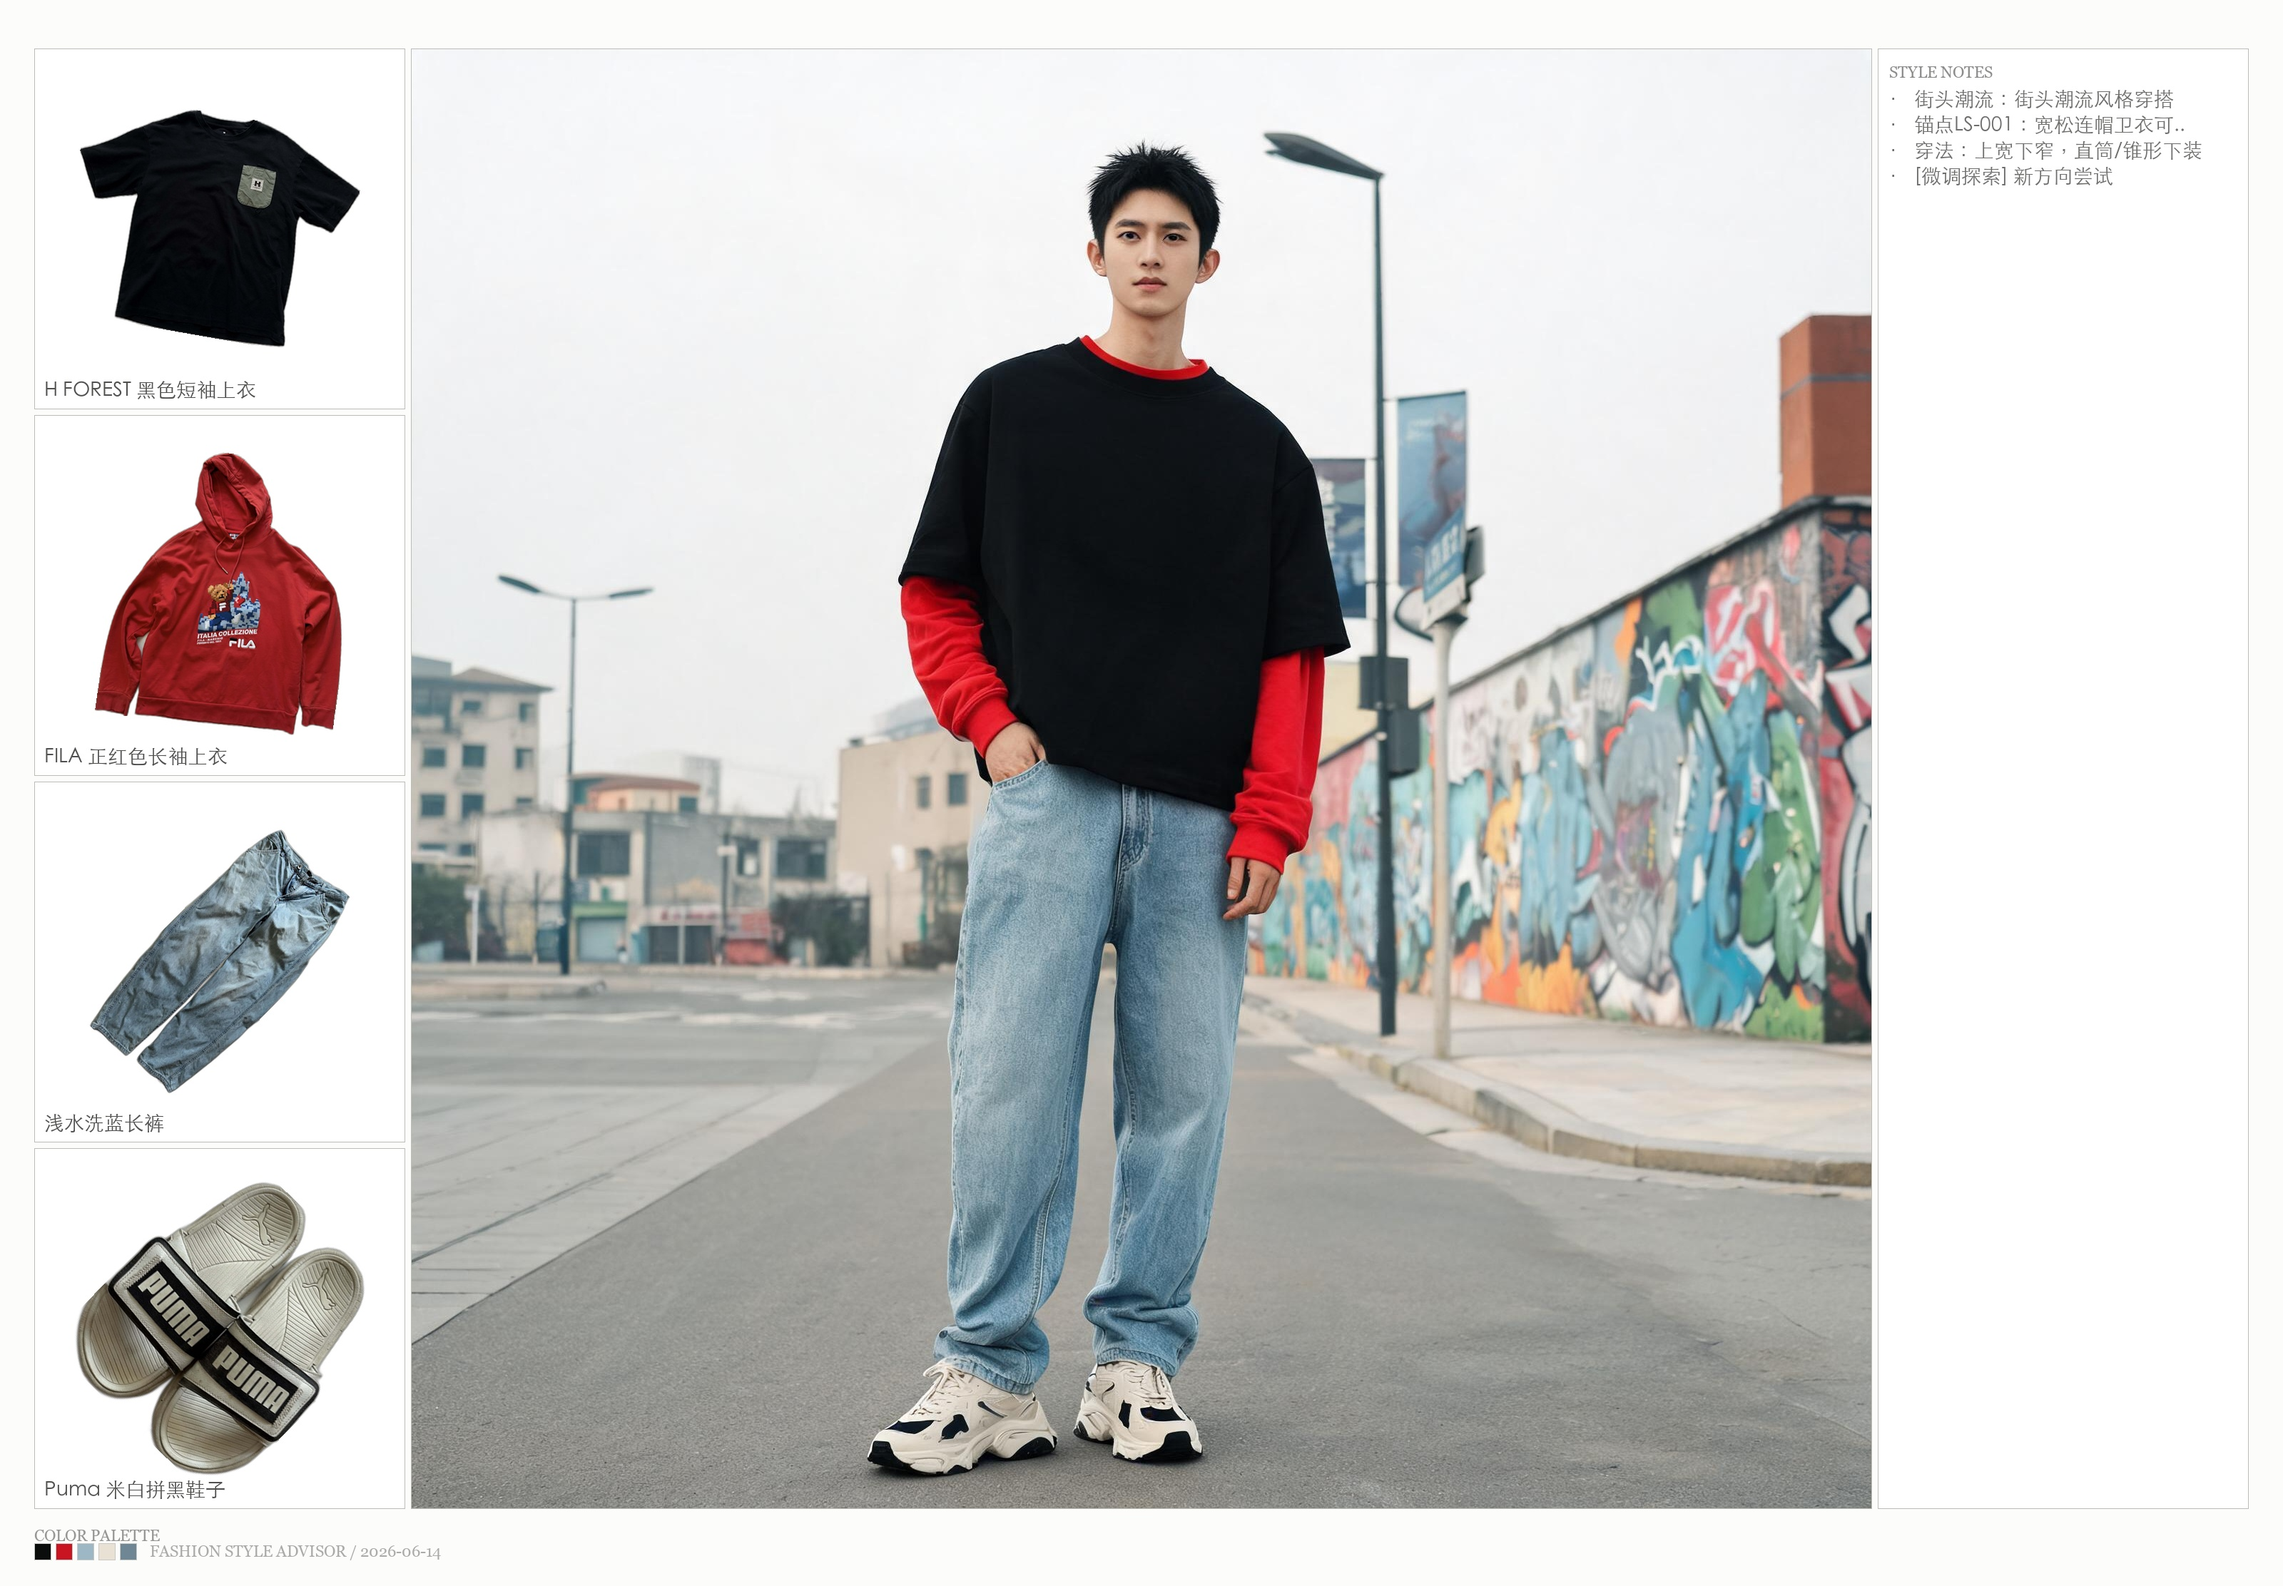
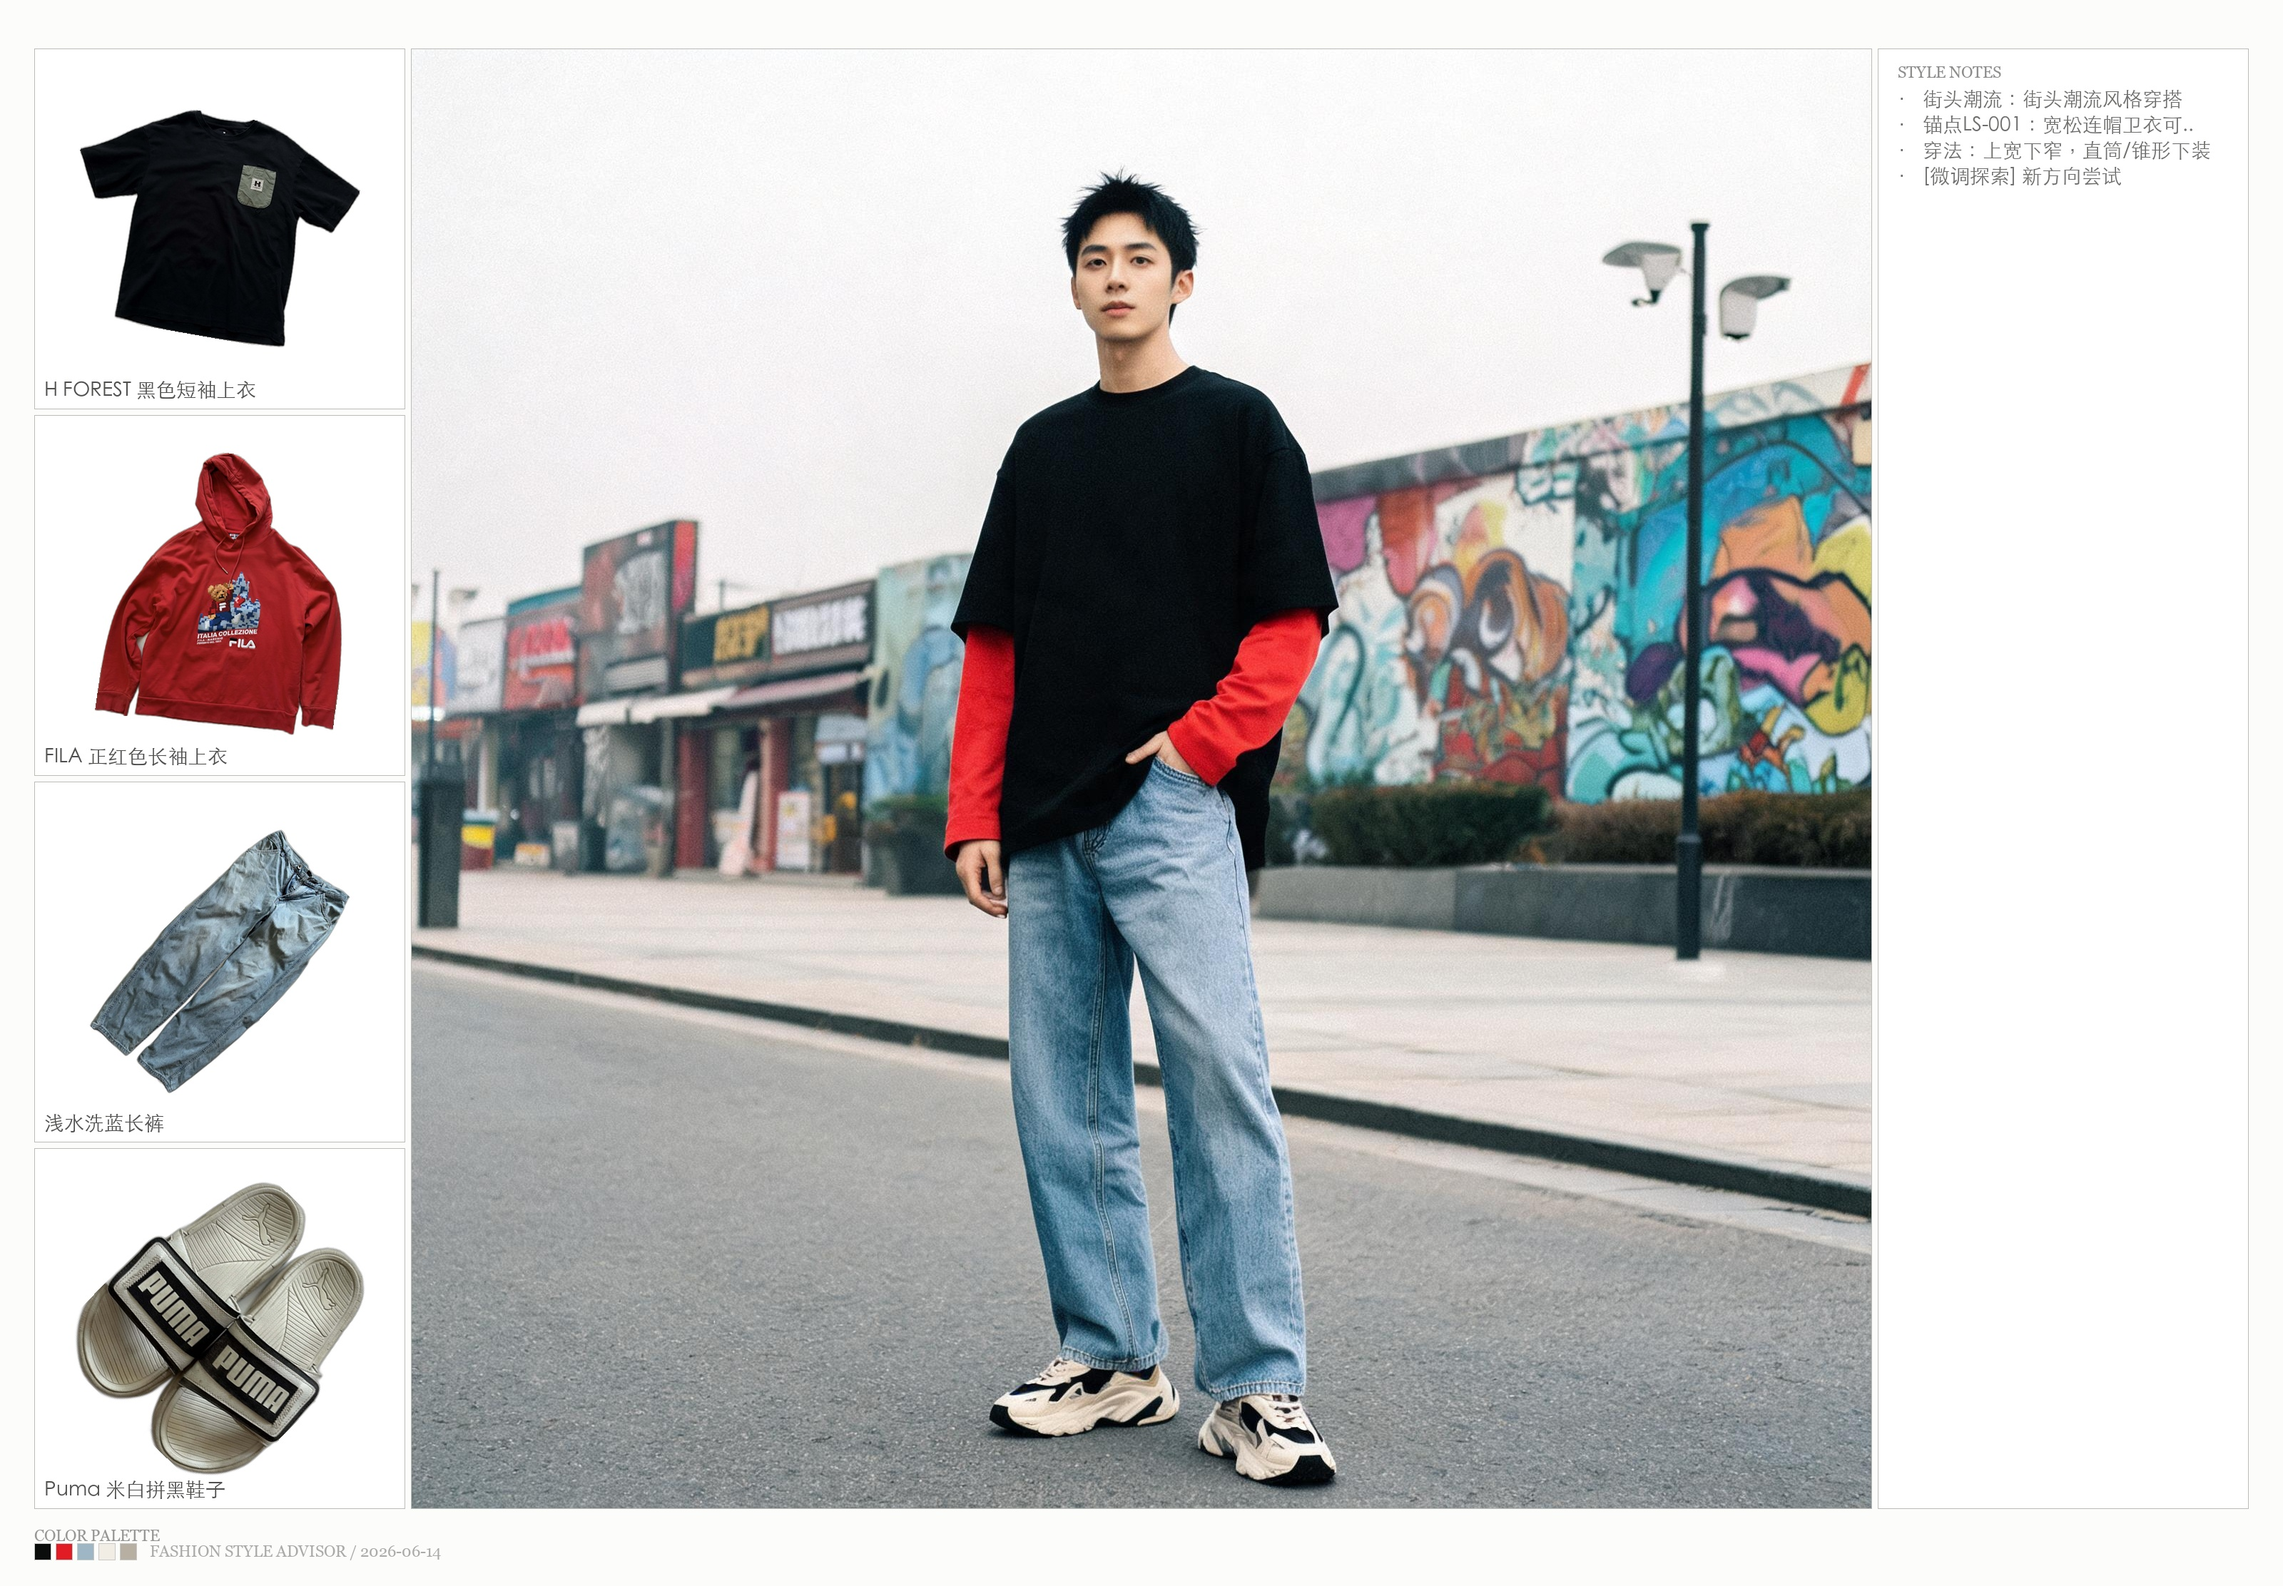
🧪 B线探索: 街头潮流 (2026-06-14)

Changed region(s): [[0.1562, 0.0621, 0.8438, 0.9618], [0.8438, 0.031, 0.9688, 0.1241]]

diff --git a/tools/composite_v2.py b/tools/composite_v2.py
@@ -124,14 +124,14 @@ def parse_style_info(outfit_dir):
                 m = re.search(r'[：:]\s*(.+)', line)
                 if m:
                     v = m.group(1).strip().replace('**', '')
-                    if v and len(v) <= 18:
+                    if v:
                         notes.append(v)
                 continue
             if in_section:
                 if line.strip().startswith('##') or line.strip().startswith('---'):
                     break
                 s = line.strip().lstrip('- ').strip()
-                if s and len(s) <= 18:
+                if s:
                     notes.append(s)
         if notes:
             return notes[:5]
@@ -180,7 +180,7 @@ def parse_style_info(outfit_dir):
                 reason = cells[4]  # B线表格第5列是选品理由
             else:
                 continue
-            if reason and reason not in ('选品理由', '') and len(reason) <= 18:
+            if reason and reason not in ('选品理由', '') and True:  # no length limit (wrapping)
                 reasons.append(reason)
     # 取前2条作为风格提示
     for r in reasons[:2]:
@@ -188,6 +188,23 @@ def parse_style_info(outfit_dir):
             notes.append(r)
 
     return notes[:5]
+
+
+def wrap_text(text, font, max_width):
+    """中文按字符换行"""
+    lines = []
+    current = ''
+    for ch in text:
+        test = current + ch
+        if font.getbbox(test)[2] <= max_width:
+            current = test
+        else:
+            if current:
+                lines.append(current)
+            current = ch
+    if current:
+        lines.append(current)
+    return lines or [text]
 
 def composite(ai_path,items,output_path):
     ai_img=Image.open(ai_path).convert('RGB'); ai_w,ai_h=ai_img.size
@@ -266,12 +283,15 @@ def composite(ai_path,items,output_path):
         canvas.paste((255,255,255),(rx,ry,rx+cell_w,ry+info_h))
         draw.rectangle([(rx,ry),(rx+cell_w-1,ry+info_h-1)],outline=(189,189,184),width=BORDER)
         ty=ry+20
+        NOTE_PAD=28; NOTE_MAX_W=cell_w-NOTE_PAD-16
         if style_kw:
-            draw.text((rx+16,ty),'STYLE NOTES',font=f_mini,fill=(140,140,138))
+            draw.text((rx+NOTE_PAD,ty),'STYLE NOTES',font=f_mini,fill=(140,140,138))
             ty+=36
             for kw in style_kw:
-                draw.text((rx+16,ty),f'· {kw}',font=f_item,fill=(110,110,108))
-                ty+=36
+                for wline in wrap_text(f'· {kw}', f_item, NOTE_MAX_W):
+                    if ty+36>top_y+ai_display_h-10: break
+                    draw.text((rx+NOTE_PAD,ty),wline,font=f_item,fill=(110,110,108))
+                    ty+=36
     # 底部：配色色块 — 从抠图衣服提取颜色（省token）
     # 底部：配色色块 — 豆包视觉识别（缓存结果）
     cache_file=os.path.join(os.path.dirname(output_path),'.color_cache.json')

diff --git a/tools/build_push.py b/tools/build_push.py
@@ -357,6 +357,41 @@ def build_push(outfit_dir, force_line=None, force_boldness=None):
     acc_items = [it for it in data['items'] if it['score'] == '—' or not it['score']]
     style_name = style.get('name_zh', '日系CityBoy') if style else '今日推荐'
 
+    # ━━━ A线风格笔记（无则生成并重跑排版）━━━
+    if not is_bline:
+        md_path = os.path.join(outfit_dir, 'outfit.md')
+        with open(md_path, 'r') as f:
+            md_text = f.read()
+        if '风格笔记' not in md_text:
+            # 从风格指纹提取关键特征
+            style_desc = ''
+            if encyc:
+                style_desc = encyc.get('one_liner', '')[:24]
+            if not style_desc and style:
+                style_desc = style.get('description', '')[:24]
+            silhouette = style.get('fingerprint', {}).get('silhouette', {}) if style else {}
+            color_logic = style.get('fingerprint', {}).get('color_rules', {}).get('color_logic', '') if style else ''
+            # 提取穿法要点
+            wear_tips = []
+            for it in data.get('items', [])[:2]:
+                r = it.get('reason', '')
+                if r:
+                    wear_tips.append(r[:20])
+            # 生成简洁笔记（每条尽量短以利卡片展示）
+            notes = []
+            notes.append(f'- {style_name}：{style_desc}' if style_desc else f'- {style_name}风格')
+            if color_logic:
+                notes.append(f'- {color_logic[:24]}')
+            for tip in wear_tips:
+                notes.append(f'- {tip}')
+            notes_str = '\n'.join(notes)
+            with open(md_path, 'a') as f:
+                f.write(f'\n## 风格笔记\n\n{notes_str}\n')
+            # 重跑排版
+            import subprocess
+            subprocess.run([sys.executable, os.path.join(BASE_DIR, 'composite_v2.py'), outfit_dir],
+                          cwd=PROJ_DIR, capture_output=True, timeout=60)
+
     # ━━━ 标题区 ━━━
     outfit_name = os.path.basename(outfit_dir).split('_', 1)[-1] if '_' in os.path.basename(outfit_dir) else ''
 
